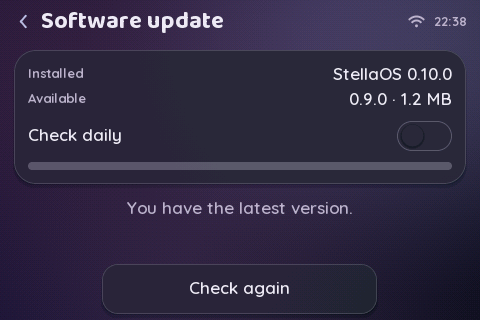
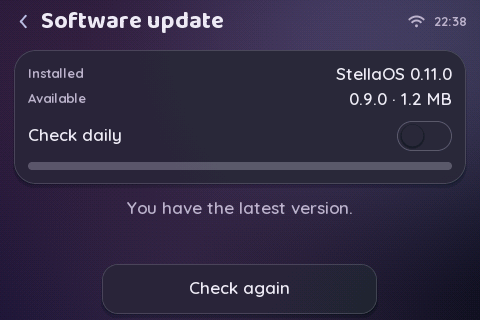
The sky follows the real sunrise and sunset (0.11.0)
The four sky phases (dawn, day, dusk, night) were fixed hours (dusk from 17:00,
night from 20:00 all year). They now follow the sun where the Weather place is:
dawn from 45 minutes before sunrise to 75 minutes after it, day until an hour
before sunset, dusk until 45 minutes after sunset, then night. In Melbourne
that means dusk at 19:10 and night after 20:55 in November, and night from
about 17:50 in June, instead of 17:00 and 20:00 all year.

- The Weather app computes today's sunrise and sunset from its place and the date
  (core/solar, no network, so it works before the first forecast) and tells the
  shell with AppContext::setSun, on every wake and when the place changes. Polar
  summer is day all day and polar winter night. Without it (no time, no Weather
  app, a day-old report) the fixed hours remain the fallback.
- The same phase drives Auto light/dark, night dimming and the bedside face's
  auto-start; SystemStatus::night exposes it (Settings' night-dim marker uses it).
- ui/theme: phaseForSun().

Tests (203, five new): the phase boundaries; Melbourne in summer and winter
against what the fixed hours would have said; night status and dimming; polar
and unknown sun; stale reports ignored. One existing test is updated (at 17:05
in November the sky is still day). Firmware 1,512,483 B (76 %), 85,972 B RAM.
Not run on the device.

Claude-Session: https://claude.ai/code/session_01WrCzyR31TQn5da2N4PH2yW

Changed region(s): [[0.6875, 0.1875, 0.9375, 0.25]]

diff --git a/tests/test_sky.cpp b/tests/test_sky.cpp
@@ -1,0 +1,94 @@
+// The sky follows the real sun: sunrise and sunset from the Weather place
+// (core/solar) decide dawn, day, dusk and night, with the fixed hours as the
+// fallback and the polar cases handled.
+#include "sim_session.h"
+#include "stella/ui/theme.h"
+#include "test.h"
+
+using namespace stella;
+using namespace stella::host;
+
+namespace {
+// Melbourne, local time (UTC+10 in winter, +11 in summer): epoch of a local clock reading.
+int64_t melbourne(int year, int month, int day, int hour, int minute, int offsetHours) {
+  int y = year - (month <= 2);
+  const int era = (y >= 0 ? y : y - 399) / 400;
+  const unsigned yoe = (unsigned)(y - era * 400);
+  const unsigned doy = (153 * (month + (month > 2 ? -3 : 9)) + 2) / 5 + day - 1;
+  const unsigned doe = yoe * 365 + yoe / 4 - yoe / 100 + doy;
+  const int64_t days = (int64_t)era * 146097 + (int64_t)doe - 719468;
+  return days * 86400 + (hour - offsetHours) * 3600 + minute * 60;
+}
+
+SkyPhase phaseAt(int64_t epoch) {
+  SimSession s(320, 240, epoch);
+  s.run(500);  // the Weather app tells the shell about today's sun
+  return s.os.theme().phase;
+}
+}  // namespace
+
+TEST(phase_for_sun_follows_sunrise_and_sunset) {
+  const int64_t rise = 1000000, set = rise + 14 * 3600;
+  CHECK(phaseForSun(rise - 60 * 60, rise, set) == SkyPhase::Night);        // an hour before sunrise
+  CHECK(phaseForSun(rise - 30 * 60, rise, set) == SkyPhase::Dawn);         // 45 min before: dawn begins
+  CHECK(phaseForSun(rise + 60 * 60, rise, set) == SkyPhase::Dawn);
+  CHECK(phaseForSun(rise + 80 * 60, rise, set) == SkyPhase::Day);          // 75 min after sunrise
+  CHECK(phaseForSun(set - 70 * 60, rise, set) == SkyPhase::Day);
+  CHECK(phaseForSun(set - 50 * 60, rise, set) == SkyPhase::Dusk);          // the last hour of light
+  CHECK(phaseForSun(set + 30 * 60, rise, set) == SkyPhase::Dusk);
+  CHECK(phaseForSun(set + 50 * 60, rise, set) == SkyPhase::Night);
+}
+
+TEST(the_sky_follows_the_real_sun_in_summer_and_winter) {
+  // Summer (16 Nov, sunrise ~05:59, sunset ~20:10 AEDT): 20:20 is still dusk, 05:00 still night
+  // (the old fixed hours said night from 20:00 and dawn from 05:00).
+  CHECK(phaseAt(melbourne(2026, 11, 16, 20, 20, 11)) == SkyPhase::Dusk);
+  CHECK(phaseAt(melbourne(2026, 11, 16, 5, 0, 11)) == SkyPhase::Night);
+  CHECK(phaseAt(melbourne(2026, 11, 16, 6, 30, 11)) == SkyPhase::Dawn);
+  CHECK(phaseAt(melbourne(2026, 11, 16, 13, 0, 11)) == SkyPhase::Day);
+  CHECK(phaseAt(melbourne(2026, 11, 16, 21, 30, 11)) == SkyPhase::Night);
+  // Winter (21 June, sunrise ~07:35, sunset ~17:05 AEST): dark by 18:00, light only from ~07:00
+  // (the old fixed hours said dusk until 20:00 and dawn from 05:00).
+  CHECK(phaseAt(melbourne(2026, 6, 21, 19, 30, 10)) == SkyPhase::Night);
+  CHECK(phaseAt(melbourne(2026, 6, 21, 6, 0, 10)) == SkyPhase::Night);
+  CHECK(phaseAt(melbourne(2026, 6, 21, 7, 15, 10)) == SkyPhase::Dawn);
+  CHECK(phaseAt(melbourne(2026, 6, 21, 12, 0, 10)) == SkyPhase::Day);
+  CHECK(phaseAt(melbourne(2026, 6, 21, 17, 30, 10)) == SkyPhase::Dusk);
+}
+
+TEST(night_status_and_dimming_follow_the_sun_too) {
+  SimSession late(320, 240, melbourne(2026, 11, 16, 20, 20, 11));  // dusk: not night yet
+  late.run(500);
+  CHECK(!late.os.status().night);
+  SimSession later(320, 240, melbourne(2026, 11, 16, 21, 30, 11));
+  later.run(500);
+  CHECK(later.os.status().night);
+}
+
+TEST(polar_sun_and_unknown_sun_override_or_fall_back) {
+  SimSession s(320, 240, melbourne(2026, 11, 16, 13, 0, 11));
+  s.run(500);
+  CHECK(s.os.theme().phase == SkyPhase::Day);
+  s.os.setSun(0, 0, 2);  // the Sun stays down all day
+  CHECK(s.os.theme().phase == SkyPhase::Night && s.os.status().night);
+  s.os.setSun(0, 0, 1);  // stays up all day
+  CHECK(s.os.theme().phase == SkyPhase::Day);
+  // Unknown (no time or no place): back to the fixed hours (13:00 is day either way).
+  s.os.setSun(0, 0, 0);
+  CHECK(s.os.theme().phase == SkyPhase::Day);
+  s.dev.platform.setEpoch(melbourne(2026, 11, 16, 20, 20, 11));  // fixed hours: night from 20:00
+  s.run(100);
+  s.os.setSun(0, 0, 0);
+  CHECK(s.os.theme().phase == SkyPhase::Night);
+}
+
+TEST(stale_sun_times_are_ignored) {
+  SimSession s(320, 240, melbourne(2026, 11, 16, 13, 0, 11));
+  s.run(500);
+  // Yesterday's sun from two days ago, told to the shell: a day-old report must not decide today.
+  const int64_t old = melbourne(2026, 11, 14, 6, 0, 11);
+  s.os.setSun(old, old + 14 * 3600, 0);
+  s.dev.platform.setEpoch(melbourne(2026, 11, 16, 2, 0, 11));
+  s.os.setSun(old + 60, old + 14 * 3600, 0);  // (a different value, so the shell looks again)
+  CHECK(s.os.theme().phase == SkyPhase::Night);  // the fixed hours decide at 02:00
+}

diff --git a/src/stella/runtime/runtime.cpp b/src/stella/runtime/runtime.cpp
@@ -347,7 +347,15 @@ void Runtime::formatTime(const LocalTime &t, char *out, size_t capacity) const {
 void Runtime::updateTheme(bool force) {
   const LocalTime lt = localTime();
   // Unknown time: assume night, the calmest palette for a bedside device.
-  timePhase_ = lt.valid ? phaseForHour(lt.hour) : SkyPhase::Night;
+  timePhase_ = SkyPhase::Night;
+  if (lt.valid) {
+    // The real sun when the Weather place has told us about today; else the hours.
+    const bool sunToday = sunRise_ > 0 && sunSet_ > sunRise_ && lt.epoch > sunRise_ - 18 * 3600 && lt.epoch < sunRise_ + 30 * 3600;
+    if (sunPolar_ == 1) timePhase_ = SkyPhase::Day;
+    else if (sunPolar_ == 2) timePhase_ = SkyPhase::Night;
+    else if (sunToday) timePhase_ = phaseForSun(lt.epoch, sunRise_, sunSet_);
+    else timePhase_ = phaseForHour(lt.hour);
+  }
   // The sky can be kept at one phase (Settings > Appearance).
   const SkyPhase phase = settings_.skyPin ? (SkyPhase)(settings_.skyPin - 1) : timePhase_;
   const bool dark = resolveDark(settings_.appearance, phase);
@@ -692,6 +700,7 @@ SystemStatus Runtime::status() const {
   s.hasLed = board_.led != nullptr;
   s.hasLight = board_.light != nullptr;
   s.hasSound = board_.sound != nullptr;
+  s.night = timePhase_ == SkyPhase::Night;
   s.ambient = settings_.autoBrightness && settings_.lightCalibrated() && board_.light && lightWarm_
                   ? (int8_t)(ambient_.level() * 100.f + 0.5f)
                   : (int8_t)-1;
@@ -992,6 +1001,14 @@ void Runtime::updateAlert(uint32_t now) {
     chimeAt_ = now + note.ms;
     chimeStep_ = (uint8_t)((chimeStep_ + 1) % kChimeNotes);
   }
+}
+
+void Runtime::setSun(int64_t sunrise, int64_t sunset, uint8_t polar) {
+  if (sunrise == sunRise_ && sunset == sunSet_ && polar == sunPolar_) return;
+  sunRise_ = sunrise;
+  sunSet_ = sunset;
+  sunPolar_ = polar > 2 ? 0 : polar;
+  if (started_) updateTheme(false);  // the sky may change now
 }
 
 void Runtime::previewChime() {

diff --git a/src/stella/apps/weather_app.cpp b/src/stella/apps/weather_app.cpp
@@ -255,7 +255,25 @@ bool WeatherApp::publishGlance(AppContext &ctx) {
 // Apps that were never opened get no topic notifications, so the glance is
 // also published from here: soon while there is nothing yet, then every 10 min
 // (which also withdraws data that has grown too old).
-uint32_t WeatherApp::onWake(AppContext &ctx) { return publishGlance(ctx) ? 10u * 60u * 1000u : 30u * 1000u; }
+uint32_t WeatherApp::onWake(AppContext &ctx) {
+  publishSun(ctx);
+  return publishGlance(ctx) ? 10u * 60u * 1000u : 30u * 1000u;
+}
+
+// Today's sunrise and sunset at the chosen place, to the shell: it needs no
+// forecast (only the place and the date), so this works before the first fetch.
+void WeatherApp::publishSun(AppContext &ctx) {
+  const LocalTime now = ctx.localTime();
+  int count = 0;
+  const WeatherPlace *places = weatherPlaces(count);
+  if (!now.valid || place_ >= count) {
+    ctx.setSun(0, 0, 0);
+    return;
+  }
+  const int64_t midnight = now.epoch - (now.hour * 3600 + now.minute * 60 + now.second);
+  const SunTimes sun = sunTimes(midnight + 12 * 3600, places[place_].latitude, places[place_].longitude);
+  ctx.setSun(sun.valid ? sun.sunrise : 0, sun.valid ? sun.sunset : 0, sun.polarDay ? 1 : sun.polarNight ? 2 : 0);
+}
 
 void WeatherApp::onRoute(const char *route, AppContext &ctx) {
   if (route && strcmp(route, "places") == 0) ctx.push(places_);
@@ -267,6 +285,7 @@ void WeatherApp::choosePlace(uint8_t place, AppContext &ctx) {
   ctx.saveAppRecord("place", kPlaceVersion, &place_, sizeof(place_));
   service_.setPlace(place_);
   ctx.requestJob(service_);
+  publishSun(ctx);  // a new place has its own sun
 }
 
 // ------------------------------------------------------------------ main screen

diff --git a/src/stella/app/app.h b/src/stella/app/app.h
@@ -181,6 +181,7 @@ struct SystemStatus {
   uint32_t lastFrameMs = 0;  // render time of the most recent frame
   uint32_t uiStackFree = 0, serviceStackFree = 0;  // lowest free stack seen, bytes
   bool hasLed = false, hasLight = false, hasSound = false;  // what this board has
+  bool night = false;      // it is night by the sky's clock (real sunset to sunrise when known), whatever sky is pinned
   int8_t ambient = -1;     // ambient light 0..100 % when the sensor is calibrated, else -1
   bool panelTrim = false;  // the display supports VCOM / refresh adjustment
   int64_t nextAlarm = 0;   // epoch seconds of the earliest app alarm, 0 = none (setNextAlarm)
@@ -250,6 +251,11 @@ class AppContext : public Invalidator {
   // Withdraw the calling app's alert with this tag (shown or queued) without
   // an onAlert() callback.
   virtual void dismissAlert(uint16_t tag) = 0;
+  // The Weather place's sun for today (epoch seconds), so the sky, the night
+  // dimming and the bedside face follow the real sunrise and sunset instead of
+  // fixed hours. `polar`: 0 normal, 1 the Sun stays up all day, 2 it stays down.
+  // sunrise = sunset = 0 with polar 0 means unknown (back to the fixed hours).
+  virtual void setSun(int64_t sunrise, int64_t sunset, uint8_t polar) = 0;
   // The calling app tells the shell when it will next ring (epoch seconds; 0 =
   // not at all). SystemStatus::nextAlarm is the earliest of all apps; the
   // bedside clock shows it.

diff --git a/src/stella/runtime/runtime.h b/src/stella/runtime/runtime.h
@@ -27,7 +27,7 @@
 #include "event_queue.h"
 
 #ifndef STELLA_VERSION
-#define STELLA_VERSION "0.10.0"
+#define STELLA_VERSION "0.11.0"
 #endif
 
 namespace stella {
@@ -146,6 +146,7 @@ class Runtime : public AppContext, public TopicNotifier, public ServiceHost {
   }
   bool showAlert(const Alert &alert) override;
   void previewChime() override;
+  void setSun(int64_t sunrise, int64_t sunset, uint8_t polar) override;
   void flashLed(uint8_t r, uint8_t g, uint8_t b, uint16_t ms) override;
   int ledCandidates(uint8_t *out, int capacity) override;
   void ledProbe(uint8_t pin, bool activeLow) override;
@@ -297,6 +298,8 @@ class Runtime : public AppContext, public TopicNotifier, public ServiceHost {
   uint8_t appliedScale_ = 255;  // the ambient fraction of the brightness in use, slewed
   bool lightWarm_ = false;
   bool whatsNewPending_ = false;
+  int64_t sunRise_ = 0, sunSet_ = 0;  // today's, from the Weather place; 0 = unknown
+  uint8_t sunPolar_ = 0;
   LightCalibration appliedCal_;
   int holdDuty_ = -1;
   char resetNote_[40] = {0};

diff --git a/tests/test_runtime.cpp b/tests/test_runtime.cpp
@@ -72,8 +72,13 @@ TEST(theme_follows_the_sky) {
   CHECK(!morning.os.theme().color.dark && morning.os.theme().phase == SkyPhase::Day);
   SimSession unknown(320, 240, 0);
   CHECK(unknown.os.theme().phase == SkyPhase::Night);
-  // Crossing into dusk re-themes on the minute check.
+  // Crossing into dusk re-themes on the minute check. On 16 November in
+  // Melbourne the sun sets at 20:10, so the sky is still day at 17:05 and
+  // turns to dusk an hour before sunset.
   morning.dev.platform.setEpoch(kMorningEpoch + 7 * 3600 + 50 * 60);  // 17:05
+  morning.run(100);
+  CHECK(morning.os.theme().phase == SkyPhase::Day);
+  morning.dev.platform.setEpoch(kMorningEpoch + 9 * 3600);  // 19:15
   morning.run(100);
   CHECK(morning.os.theme().phase == SkyPhase::Dusk && morning.os.theme().color.dark);
 }

diff --git a/src/stella/ui/theme.h b/src/stella/ui/theme.h
@@ -95,6 +95,12 @@ struct Theme {
 
 Density densityFor(int width, int height);
 SkyPhase phaseForHour(int hour);  // 5-8 dawn, 8-17 day, 17-20 dusk, else night
+// The same four phases from the real sun (today's sunrise and sunset, epoch
+// seconds): dawn from 45 min before sunrise to 75 min after it, day until an hour
+// before sunset, dusk until 45 min after sunset, then night. Used when the
+// Weather place gives the shell the sun's times (AppContext::setSun); the fixed
+// hours above are the fallback.
+SkyPhase phaseForSun(int64_t now, int64_t sunrise, int64_t sunset);
 bool resolveDark(Appearance appearance, SkyPhase phase);  // Auto: dark at dusk and night
 Theme makeTheme(Density density, bool dark, SkyPhase phase, const Look &look = Look{});
 

diff --git a/src/stella/ui/theme.cpp b/src/stella/ui/theme.cpp
@@ -129,6 +129,14 @@ SkyPhase phaseForHour(int hour) {
   return SkyPhase::Night;
 }
 
+SkyPhase phaseForSun(int64_t now, int64_t sunrise, int64_t sunset) {
+  if (now < sunrise - 45 * 60) return SkyPhase::Night;
+  if (now < sunrise + 75 * 60) return SkyPhase::Dawn;
+  if (now < sunset - 60 * 60) return SkyPhase::Day;
+  if (now < sunset + 45 * 60) return SkyPhase::Dusk;
+  return SkyPhase::Night;
+}
+
 bool resolveDark(Appearance appearance, SkyPhase phase) {
   if (appearance == Appearance::Light) return false;
   if (appearance == Appearance::Dark) return true;

diff --git a/src/stella/apps/settings_app.cpp b/src/stella/apps/settings_app.cpp
@@ -905,7 +905,7 @@ void SettingsApp::DisplayScreen::onShow(AppContext &ctx) {
   bedside_.count = 3;
   bedside_.selected = s.bedside;
   const LocalTime now = ctx.localTime();
-  night_ = !now.valid || phaseForHour(now.hour) == SkyPhase::Night;
+  night_ = !now.valid || ctx.status().night;
   snprintf(calibrateDetail_, sizeof(calibrateDetail_), "%s \xc2\xb7 %u%%", toneName(s.colorTone),
            (unsigned)(ctx.theme().color.dark ? s.contrastDark : s.contrastLight));
   calibrate_.detail = calibrateDetail_;

diff --git a/src/stella/apps/changelog.cpp b/src/stella/apps/changelog.cpp
@@ -7,6 +7,7 @@ namespace {
 // Newest first. Add an entry when STELLA_VERSION goes up; a test checks the
 // top one matches the running version.
 const ChangelogEntry kChangelog[] = {
+    {"0.11.0", {"The sky follows the real sun", "Dimming and bedside follow it", nullptr}},
     {"0.10.0",
      {"A changelog after each update", "Choose and order Home apps",
       "Long-press the time to edit", nullptr}},

diff --git a/src/stella/apps/weather_app.h b/src/stella/apps/weather_app.h
@@ -173,6 +173,7 @@ class WeatherApp : public App {
   };
 
   void choosePlace(uint8_t place, AppContext &ctx);
+  void publishSun(AppContext &ctx);
   bool publishGlance(AppContext &ctx);  // "14° Overcast" for idle faces (the bedside clock); false if none
 
   Topic<WeatherSnapshot> topic_{topics::kWeather};

diff --git a/README.md b/README.md
@@ -16,9 +16,9 @@ management and versioned settings.
 
 | | |
 | --- | --- |
-| Version | 0.10.0 (What's new after an update, a customisable Home), 0.9.0 (the next hours and a rain outlook), 0.8.4 (a bigger time on Home), 0.8.3 (sunrise and sunset on Weather), 0.8.2 (Home header with the time, StellaOS name), 0.8.1 (brighter alert LED), 0.8.0: status LED, Find my LED, ambient-light dimming with a calibration (0.7.x added update diagnostics and gentler flash writes; the screen-transition experiment was removed again) |
+| Version | 0.11.0 (the sky follows the real sunrise and sunset), 0.10.0 (What's new after an update, a customisable Home), 0.9.0 (the next hours and a rain outlook), 0.8.4 (a bigger time on Home), 0.8.3 (sunrise and sunset on Weather), 0.8.2 (Home header with the time, StellaOS name), 0.8.1 (brighter alert LED), 0.8.0: status LED, Find my LED, ambient-light dimming with a calibration (0.7.x added update diagnostics and gentler flash writes; the screen-transition experiment was removed again) |
 | First board | ESP32-2432S028R "Cheap Yellow Display" (2.8" 320x240, XPT2046) |
-| Host tests | 198 tests under ASan + UBSan, incl. touch-driven Wi-Fi onboarding, alarms, the stopwatch and the update flow; screenshots at 320x240 and 480x320 |
+| Host tests | 203 tests under ASan + UBSan, incl. touch-driven Wi-Fi onboarding, alarms, the stopwatch and the update flow; screenshots at 320x240 and 480x320 |
 | Firmware build | Compiles with Arduino-ESP32 3.3.12: 1.48 MB flash (75% of a 1.9 MB update slot), 84 KB static RAM (25%) |
 | On hardware | First runs on a CYD by the owner (0.3.0): boots, Wi-Fi, Weather; colour, brightness and paging feedback addressed in 0.3.1 (not yet re-checked on the device). |
 
@@ -202,7 +202,12 @@ is optional extra security: see [Architecture > Updates](docs/ARCHITECTURE.md).
     the list, which scrolls) or a long press on Home's time opens the editor:
     switch apps off, move them with the arrows; Settings always stays. A
     friend's CYD starts with every app visible.
-20. Leave it running overnight; no `restarting` line in the log and the
+20. *The sky*: it should now turn to dusk an hour before the real sunset where
+    you are, and to night 45 minutes after it (in summer that is well after
+    20:00), and the night dimming and bedside clock start with it. Check
+    Settings > About > Software on the day of a change; if the sky looks an
+    hour out, check Settings > Time (zone) and the Weather place.
+21. Leave it running overnight; no `restarting` line in the log and the
    minimum heap in the `health` line stays stable.
 
 ## Licence
